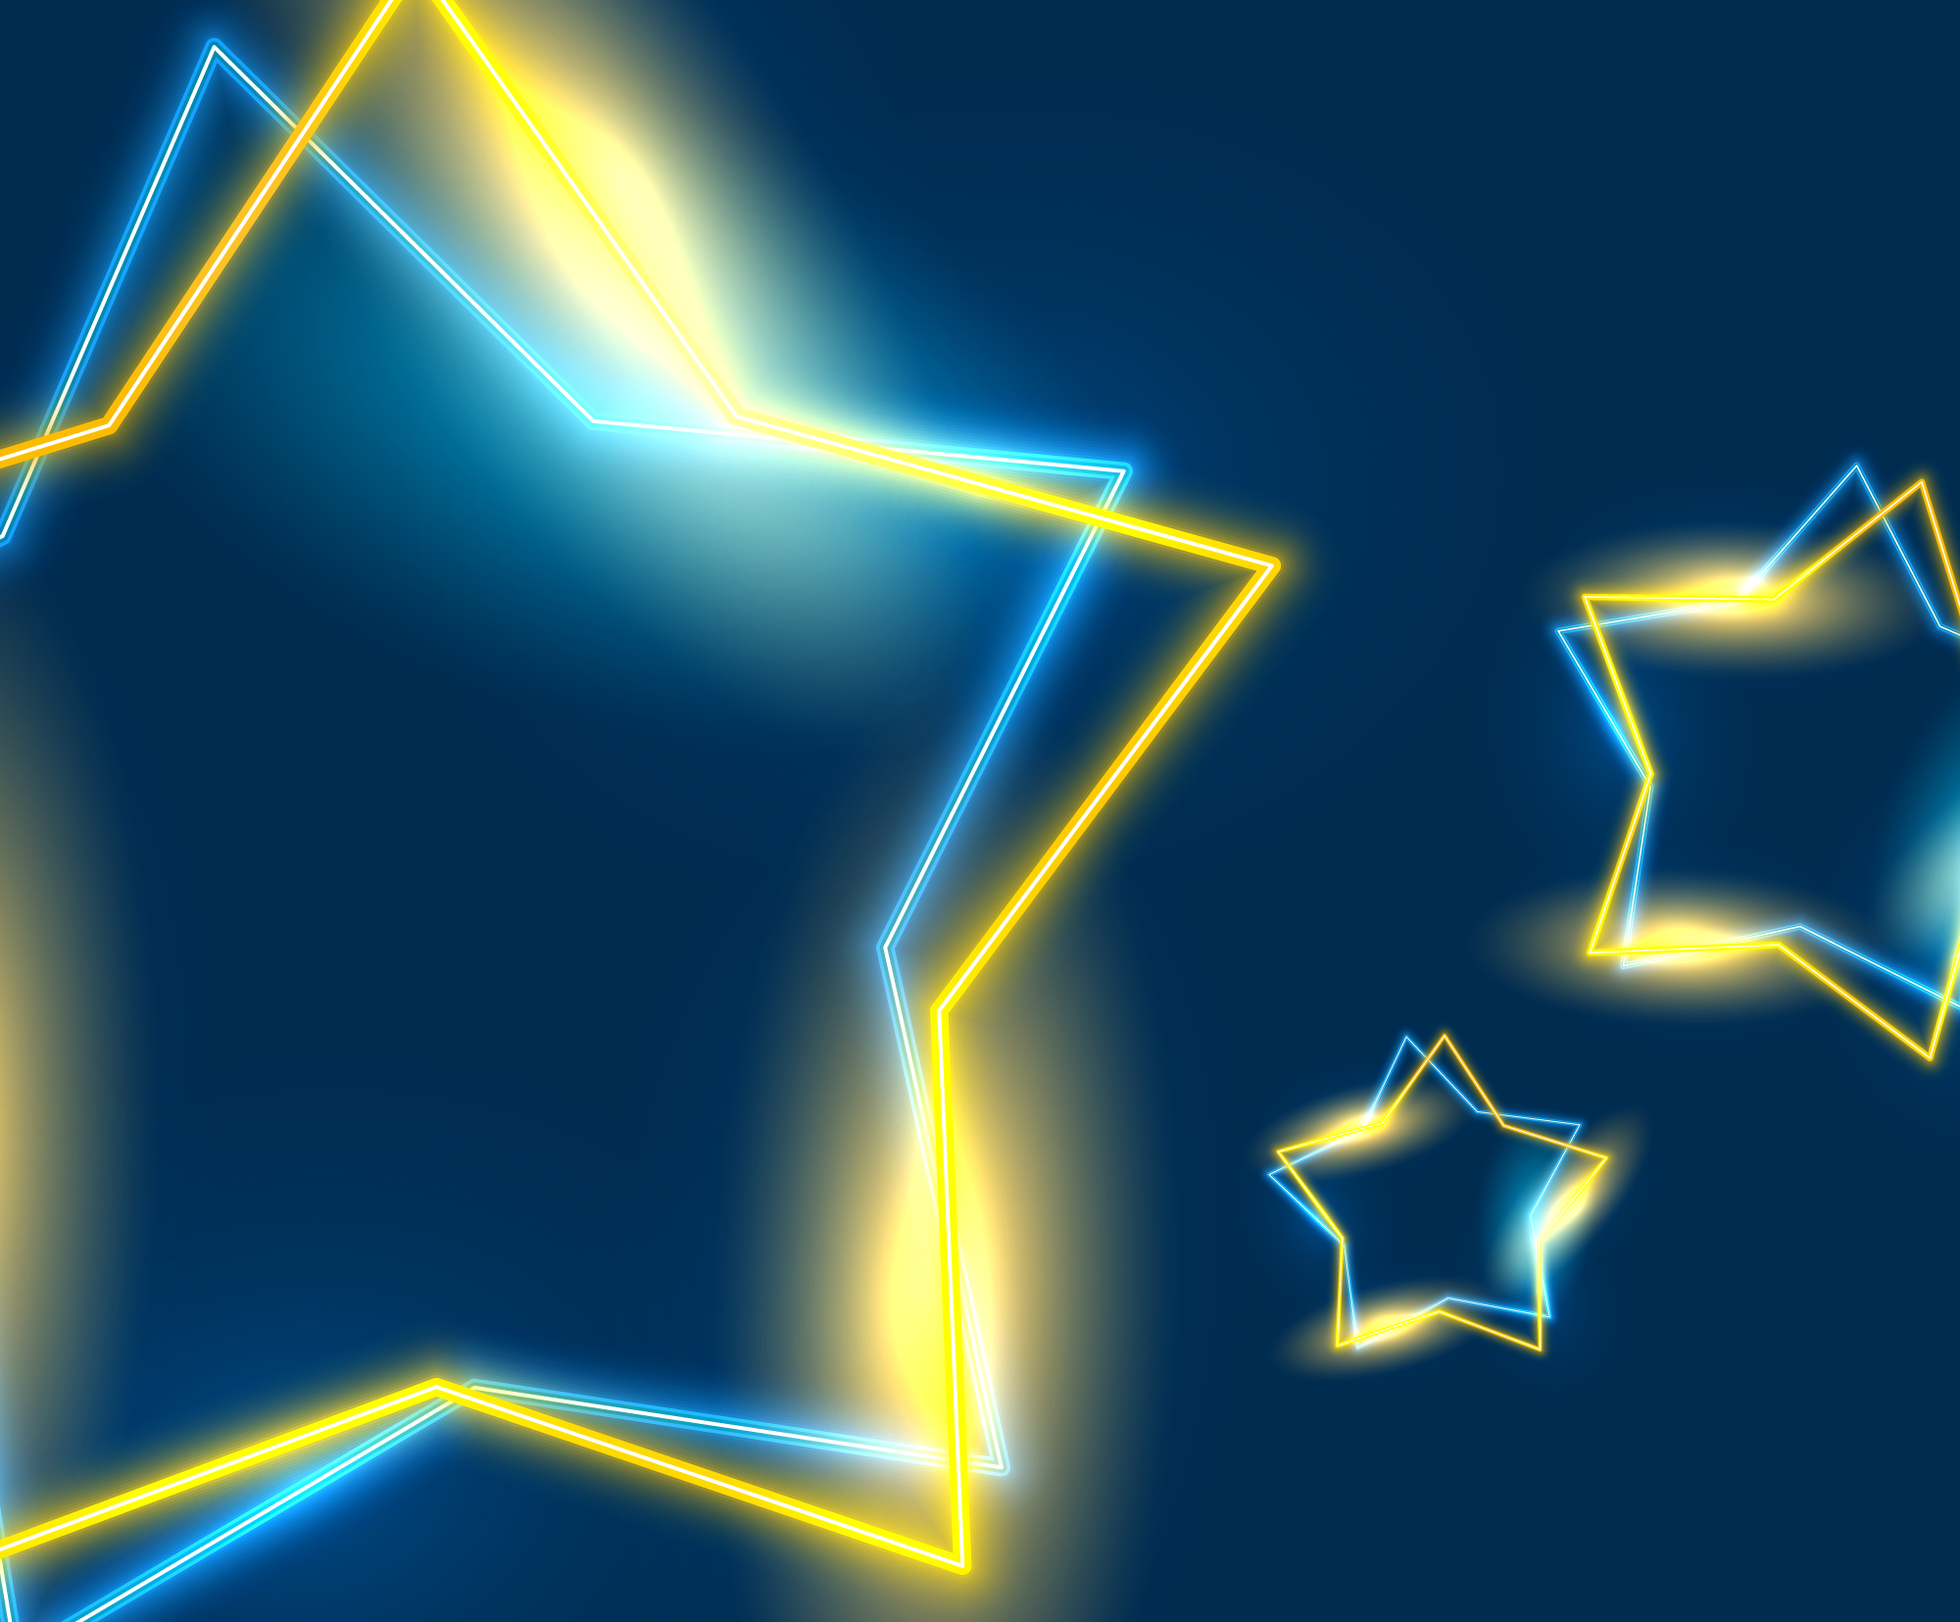
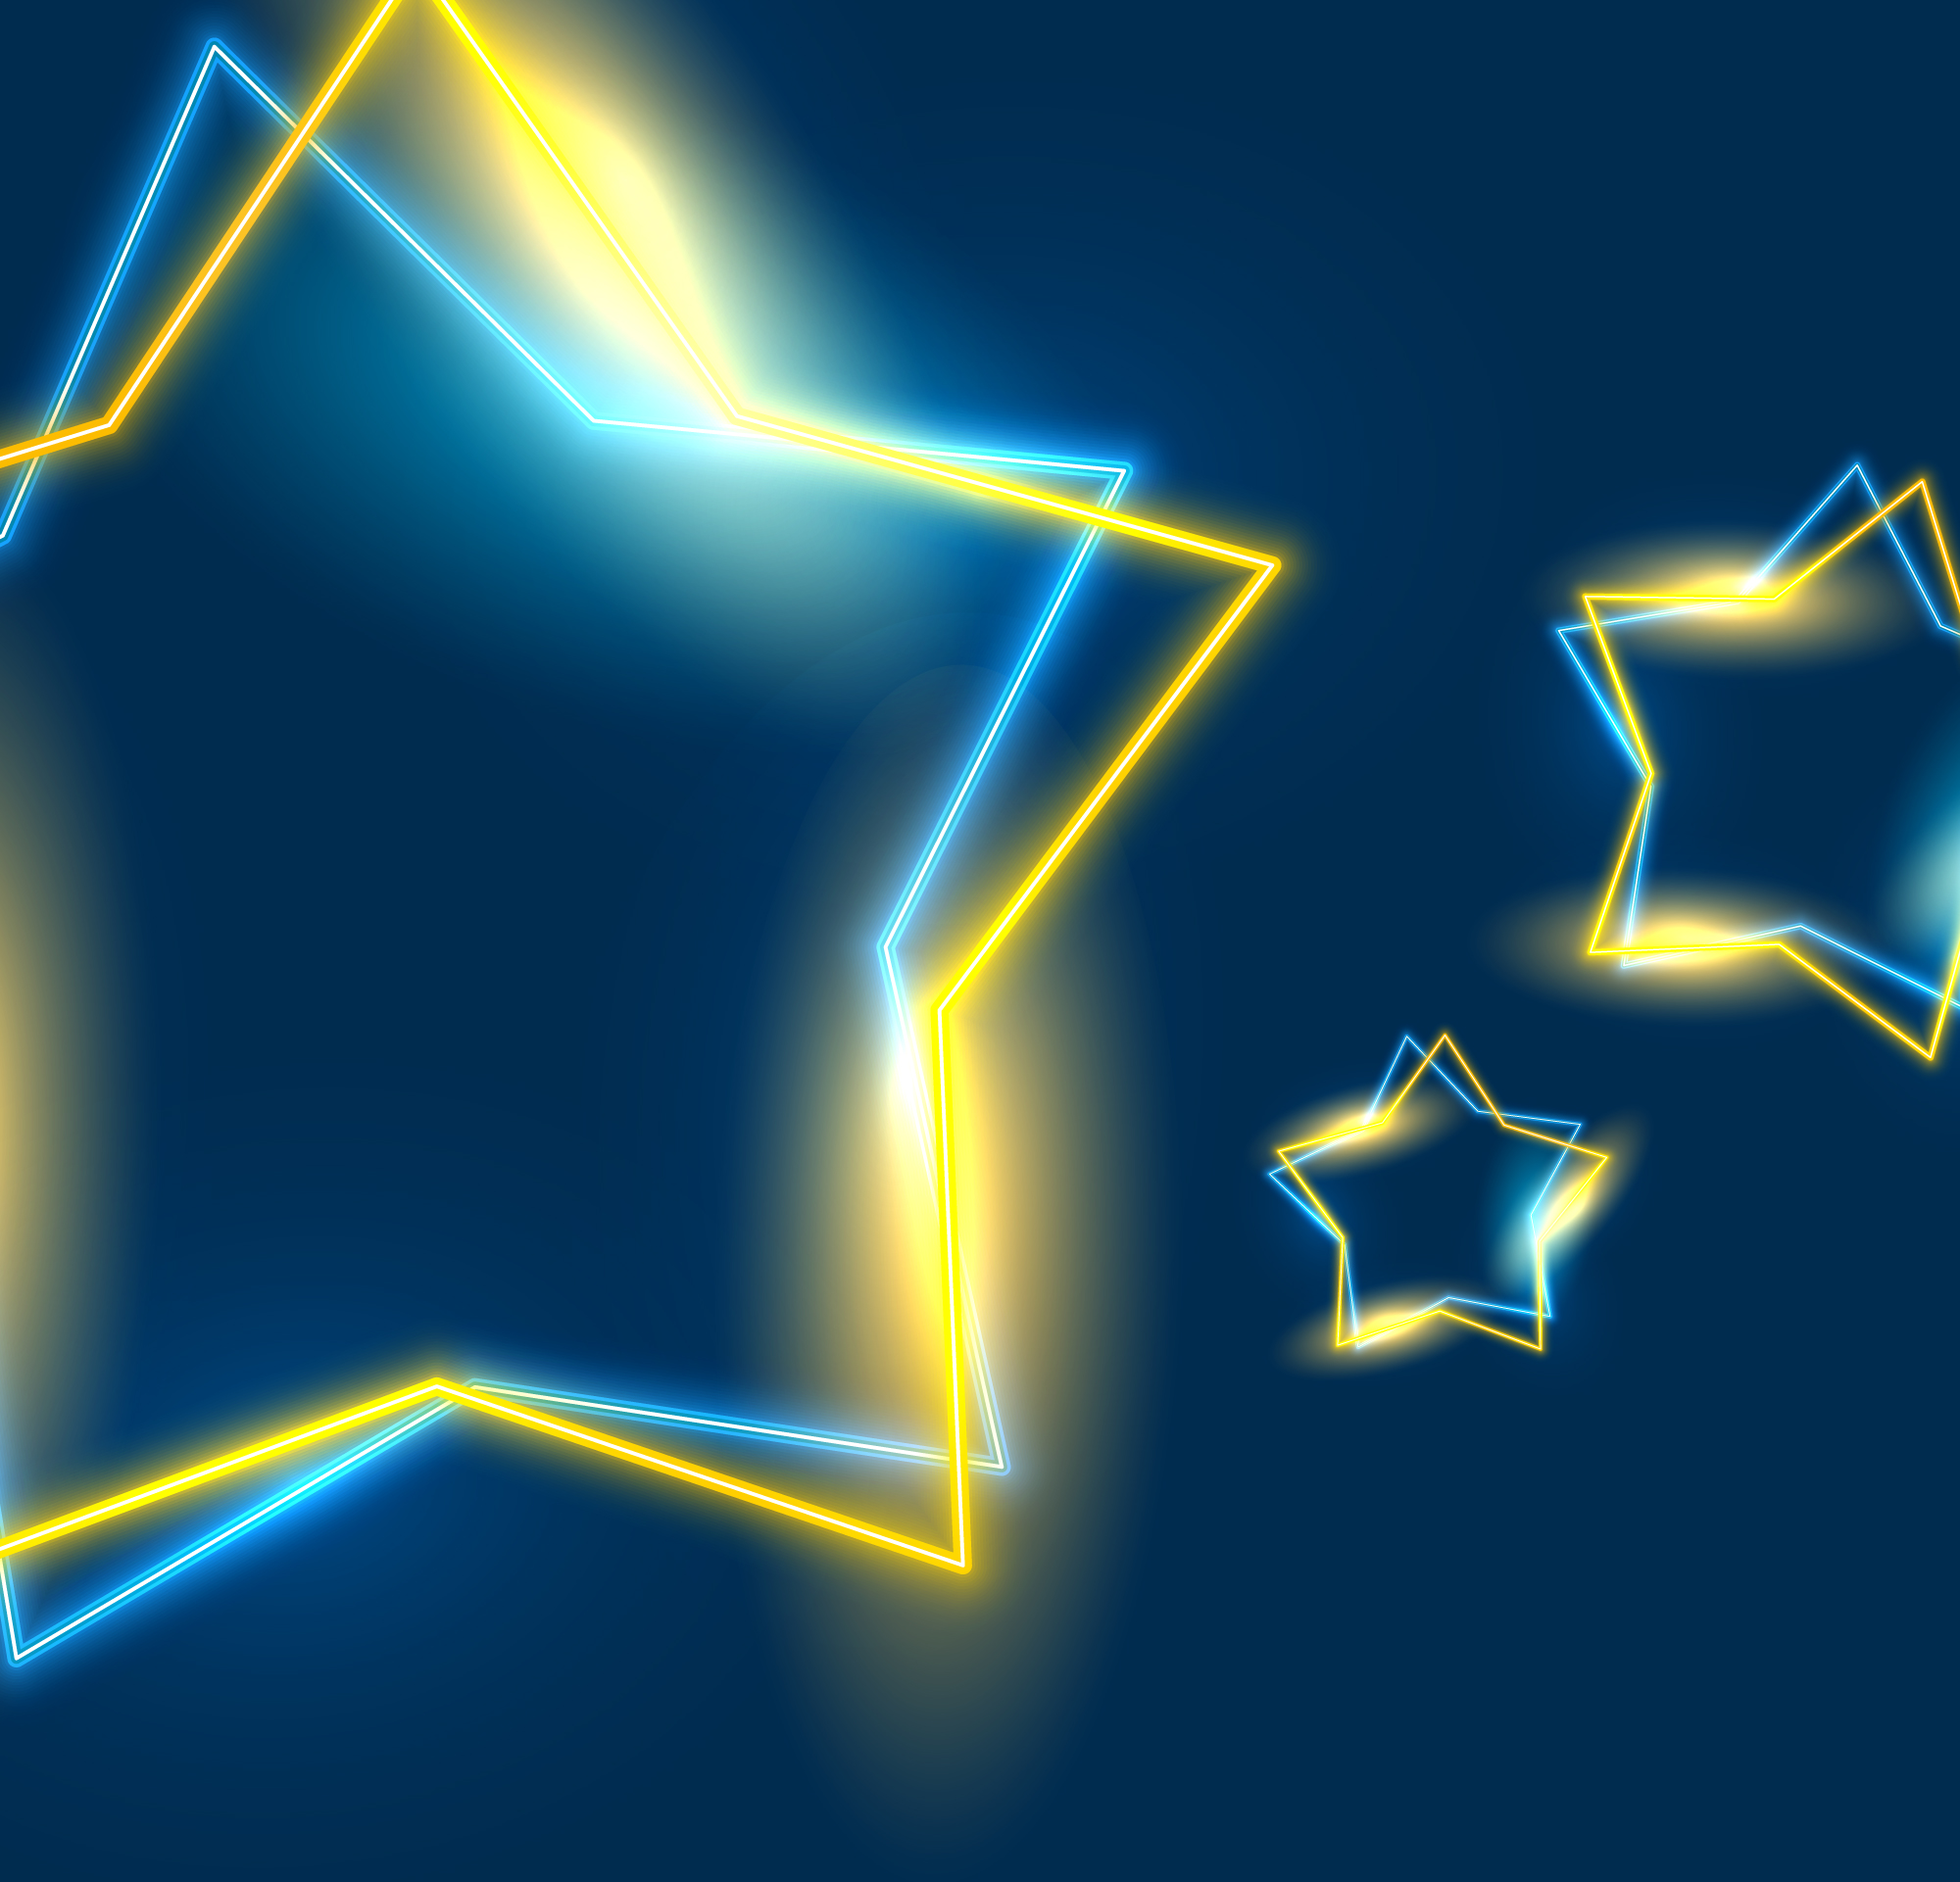
updated background
updated background

diff --git a/pearson/index.html b/pearson/index.html
@@ -34,8 +34,8 @@
 		body {
 			/*background: #d4eae4;*/
 			height: 100vh;
-
-			background-size: 100%;
+			background-image: url("images/pearson-cos-bg.jpg");
+			background-size: cover;
 			background-position: bottom;
 			background-repeat: no-repeat;
 		}
